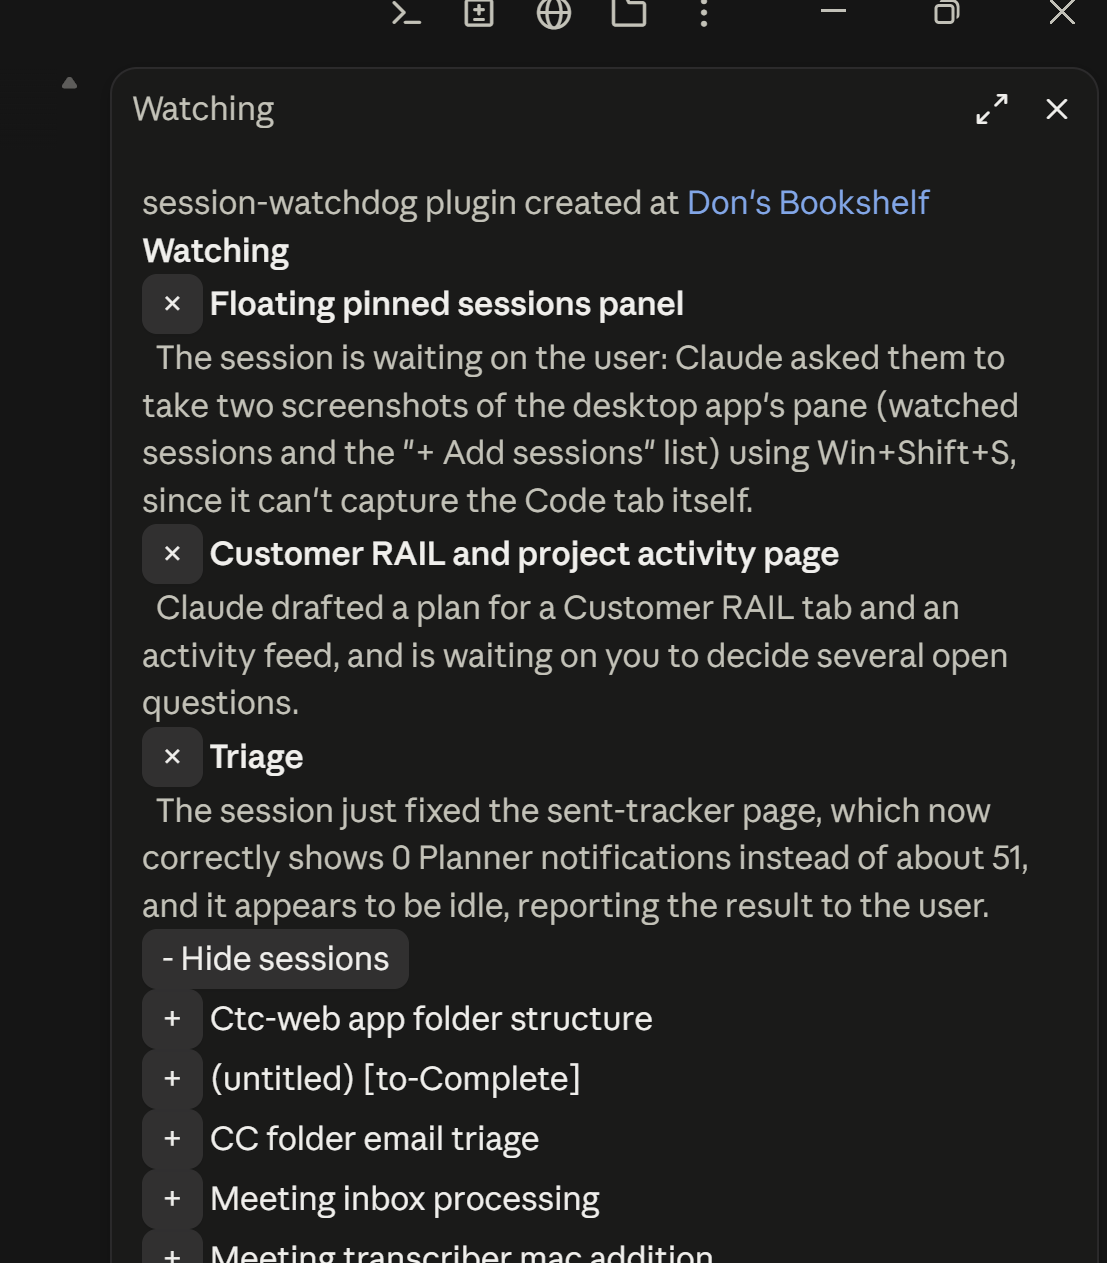
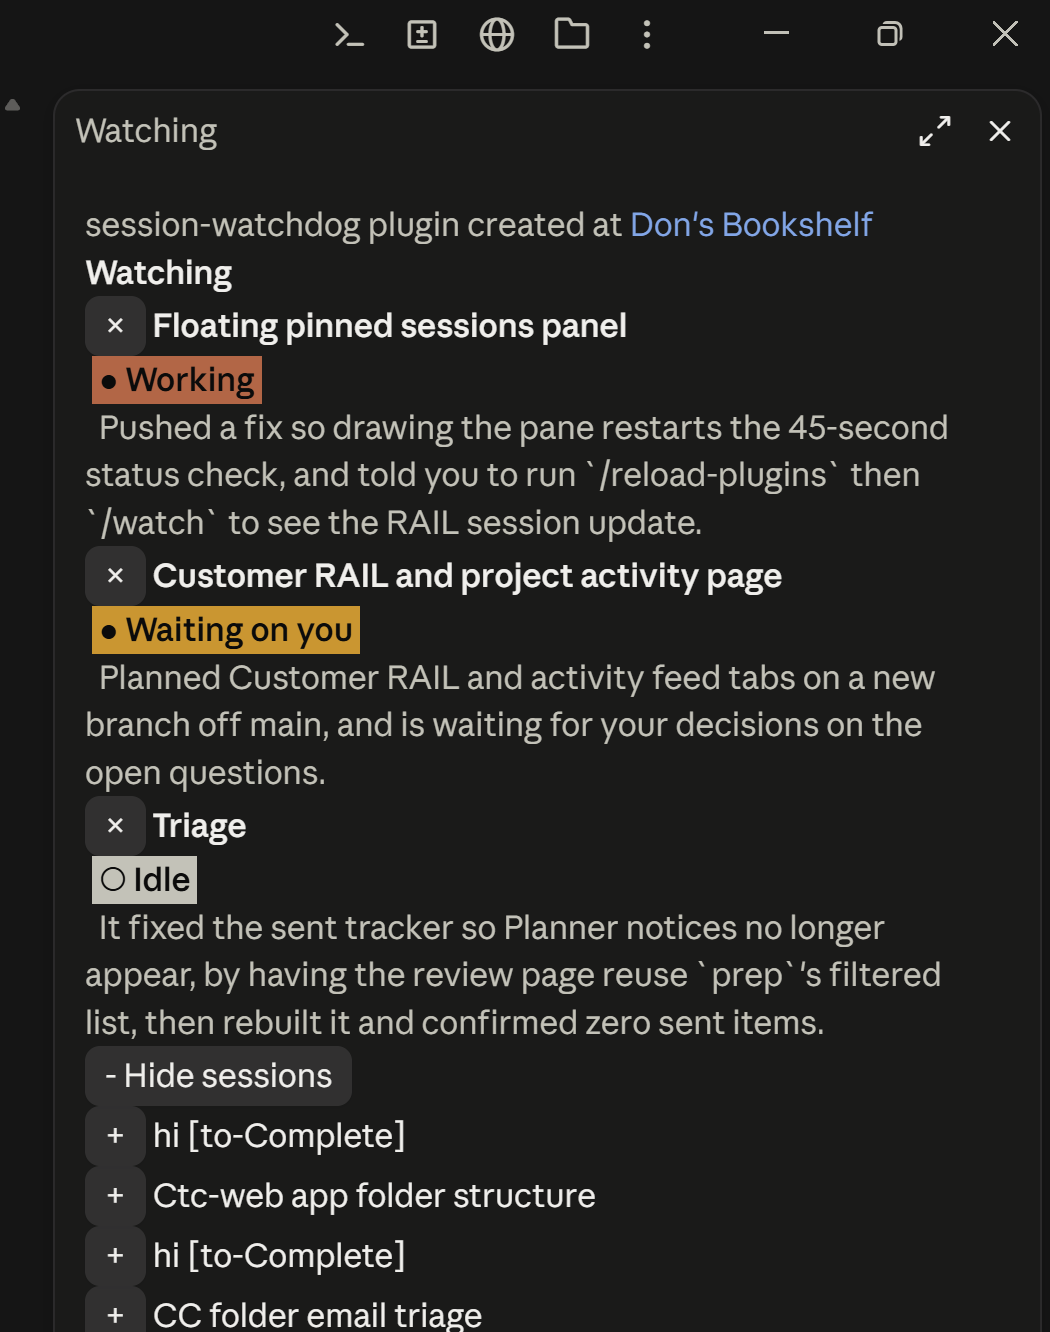
Update screenshots: status pills on desktop and terminal

diff --git a/README.md b/README.md
@@ -2,7 +2,9 @@
 
 `session-watchdog` is a Claude Code mod that keeps tabs on the sessions you care about: a pane with each watched session's title and a one-sentence summary of what it's doing or last did, and whether it's waiting on you.
 
-![The pane: watched sessions with one-line summaries, and the Add list below](screenshots/pane.png)
+![The desktop pane: each watched session with a Working / Waiting / Idle pill and a one-line summary](screenshots/pane.png)
+
+![The same pane in the terminal](screenshots/terminal.png)
 
 ![Typing /watch opens the pane](screenshots/watch-command.png)
 
